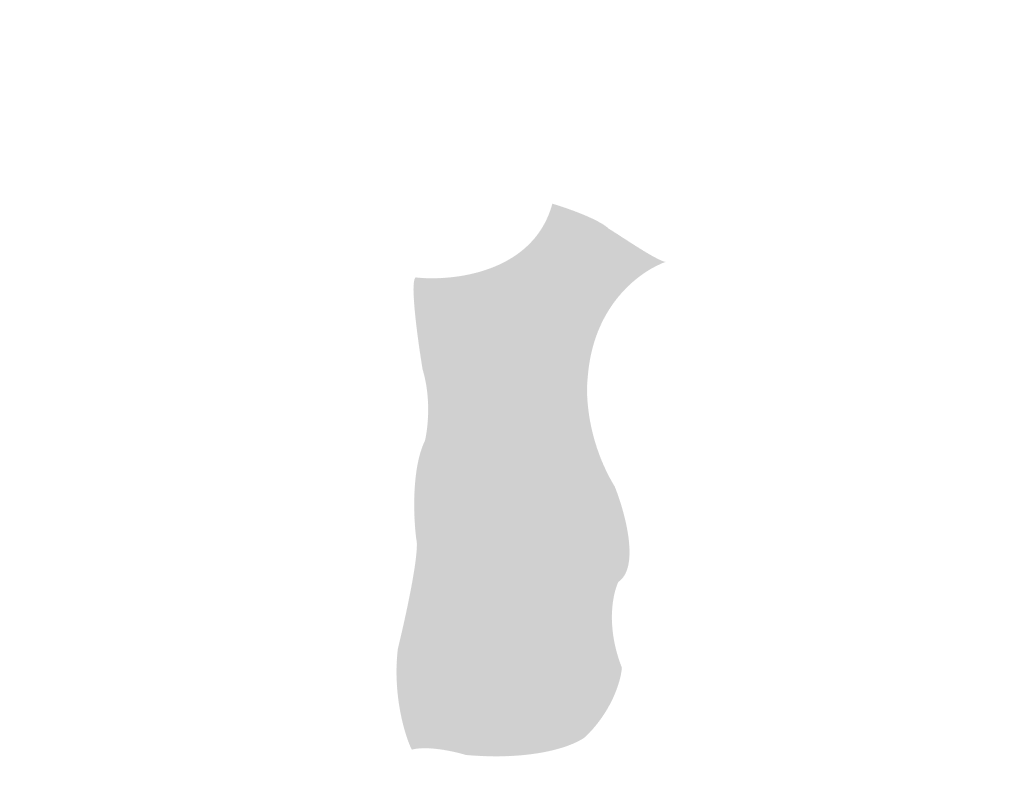
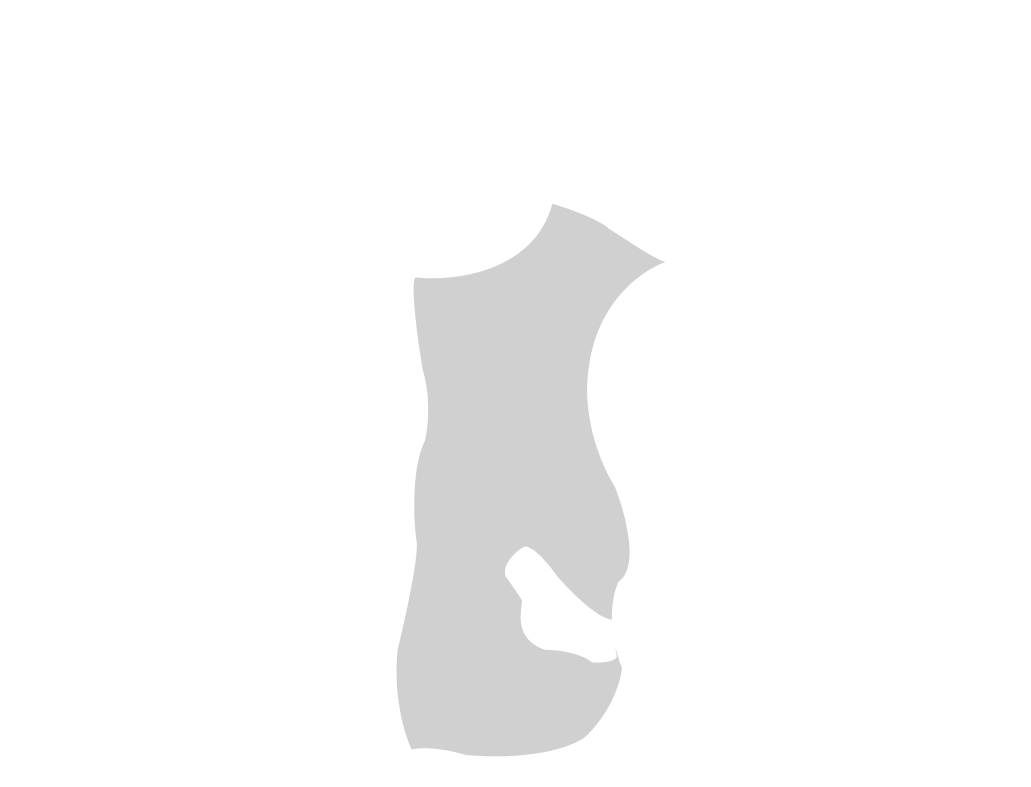
fix/listen-color-a-game(A): fix color in jacket v2

Changed region(s): [[0.4656, 0.7014, 0.6208, 0.8539]]

diff --git a/listen-color-a-game/src/scenes/PreloadScene.ts b/listen-color-a-game/src/scenes/PreloadScene.ts
@@ -44,7 +44,7 @@ export default class PreloadScene extends Phaser.Scene {
         this.load.image(TextureKeys.S2_Jacket_5, 'assets/images/S2/jacket_5.png');
         this.load.image(TextureKeys.S2_Jacket_6, 'assets/images/S2/jacket_6.png');
         this.load.image(TextureKeys.S2_Jacket_7, 'assets/images/S2/jacket_7.png');
-        //this.load.image(TextureKeys.S2_Jacket_8, 'assets/images/S2/jacket_8.png');
+        this.load.image(TextureKeys.S2_Jacket_8, 'assets/images/S2/jacket_8.png');
         this.load.image(TextureKeys.S2_Jacket_9, 'assets/images/S2/jacket_9.png');
         this.load.image(TextureKeys.S2_Jacket_10, 'assets/images/S2/jacket_10.png');
         this.load.image(TextureKeys.S2_Jacket_11, 'assets/images/S2/jacket_11.png');
